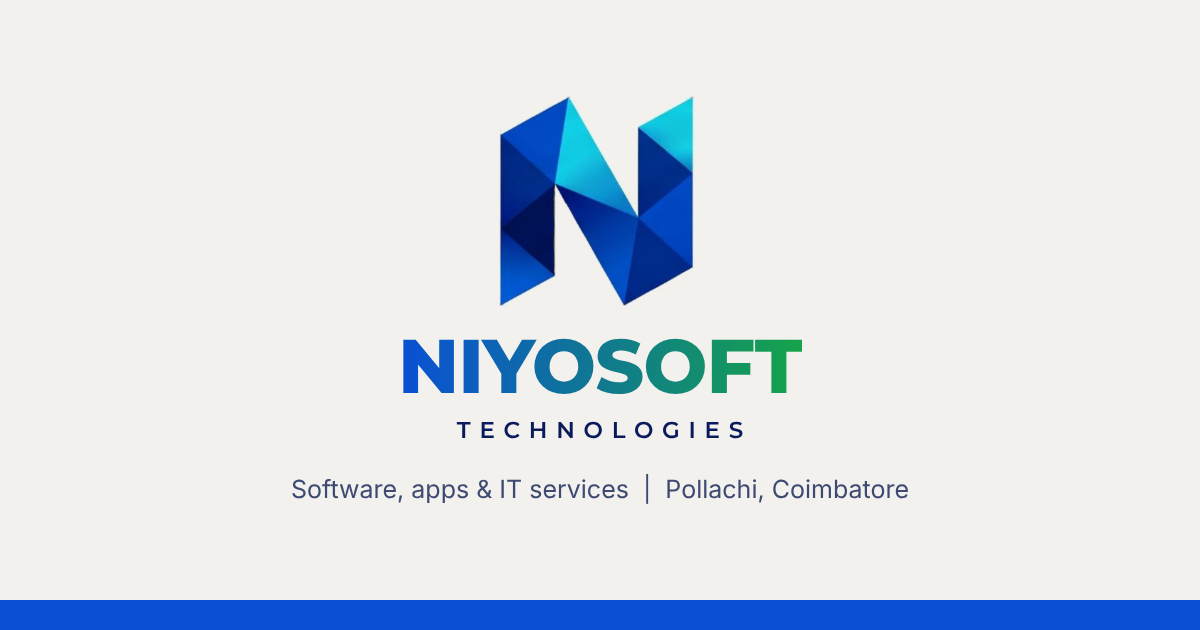
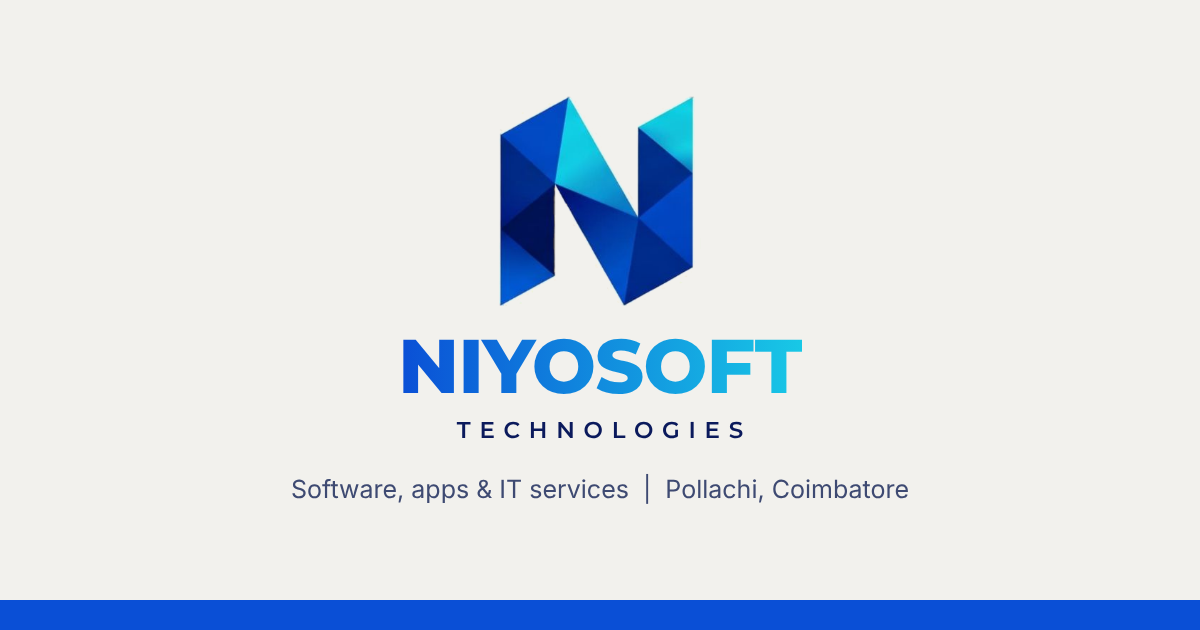
style: NIYOSOFT wordmark uses the blue to sky gradient
Switch the logo text to the founder's final choice (option 7) in the
header, footer and social share image. The N mark is unchanged.

Claude-Session: https://claude.ai/code/session_01BNs6xDrmf8ZnWAANfD4XFW

Changed region(s): [[0.37, 0.5127, 0.6783, 0.6333]]

diff --git a/src/app/globals.css b/src/app/globals.css
@@ -48,9 +48,9 @@ body {
   }
 }
 
-/* Wordmark colour for NIYOSOFT in the logo: brand blue to green. */
+/* Wordmark colour for NIYOSOFT in the logo: brand blue to sky. */
 .text-logo-gradient {
-  background-image: linear-gradient(90deg, #0a4fd6, #16a34a);
+  background-image: linear-gradient(90deg, #0a4fd6, #18c8e6);
   -webkit-background-clip: text;
   background-clip: text;
   color: transparent;
